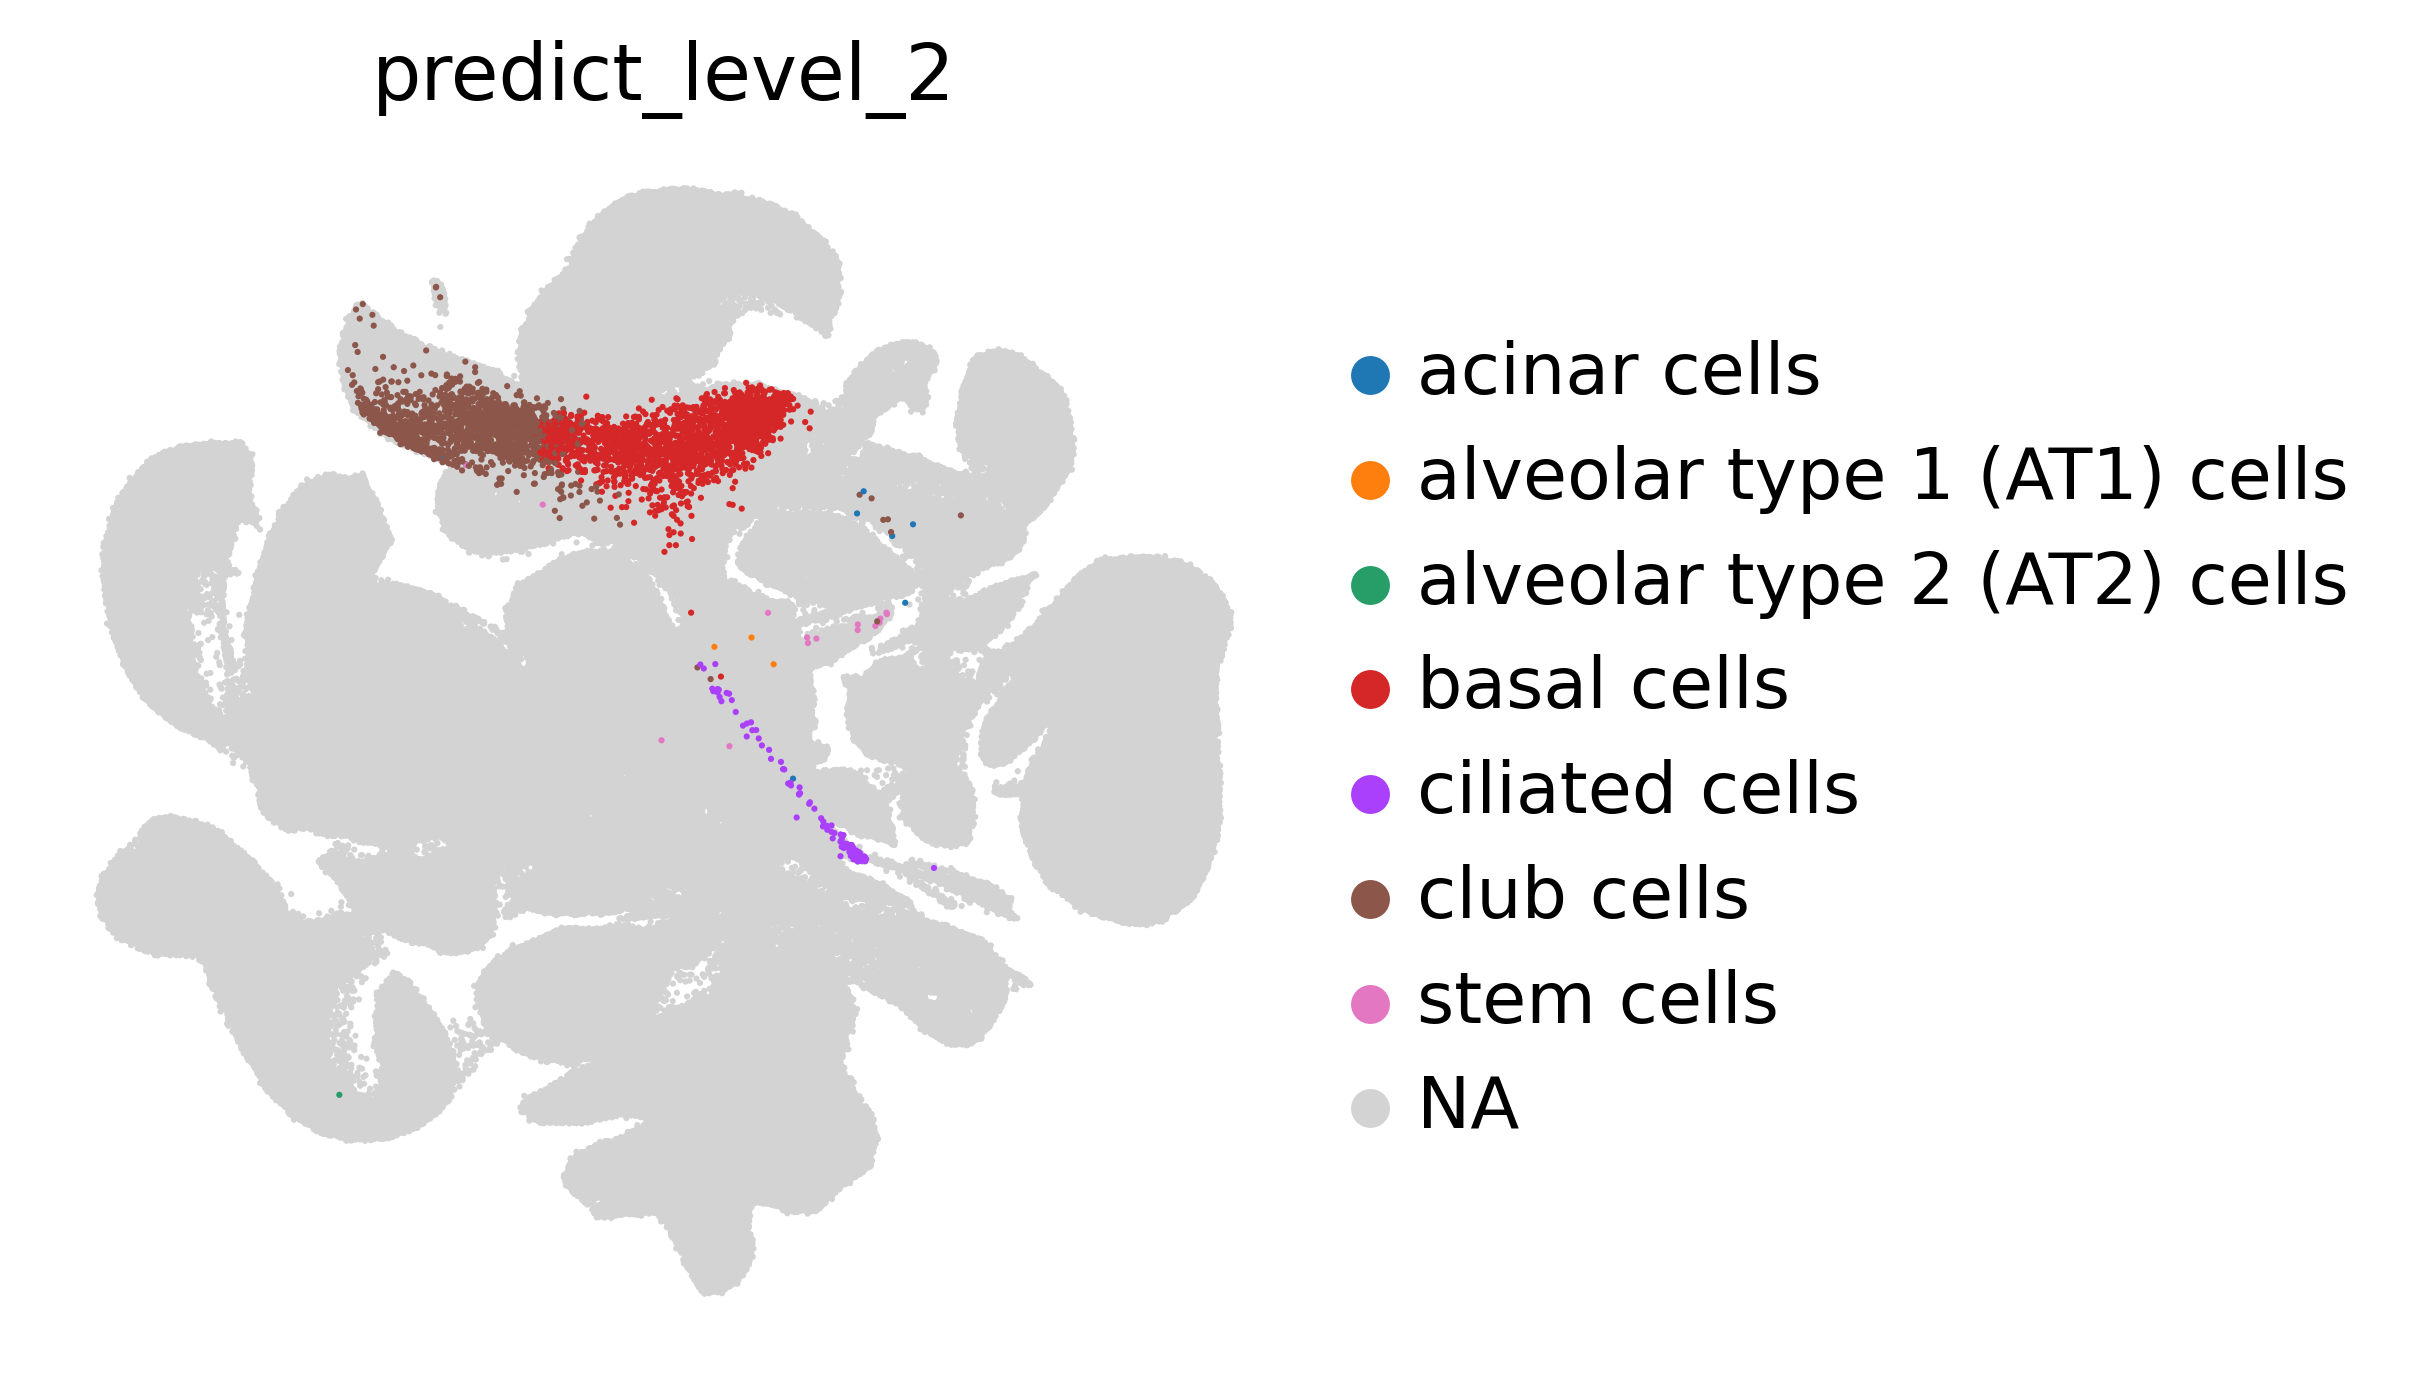
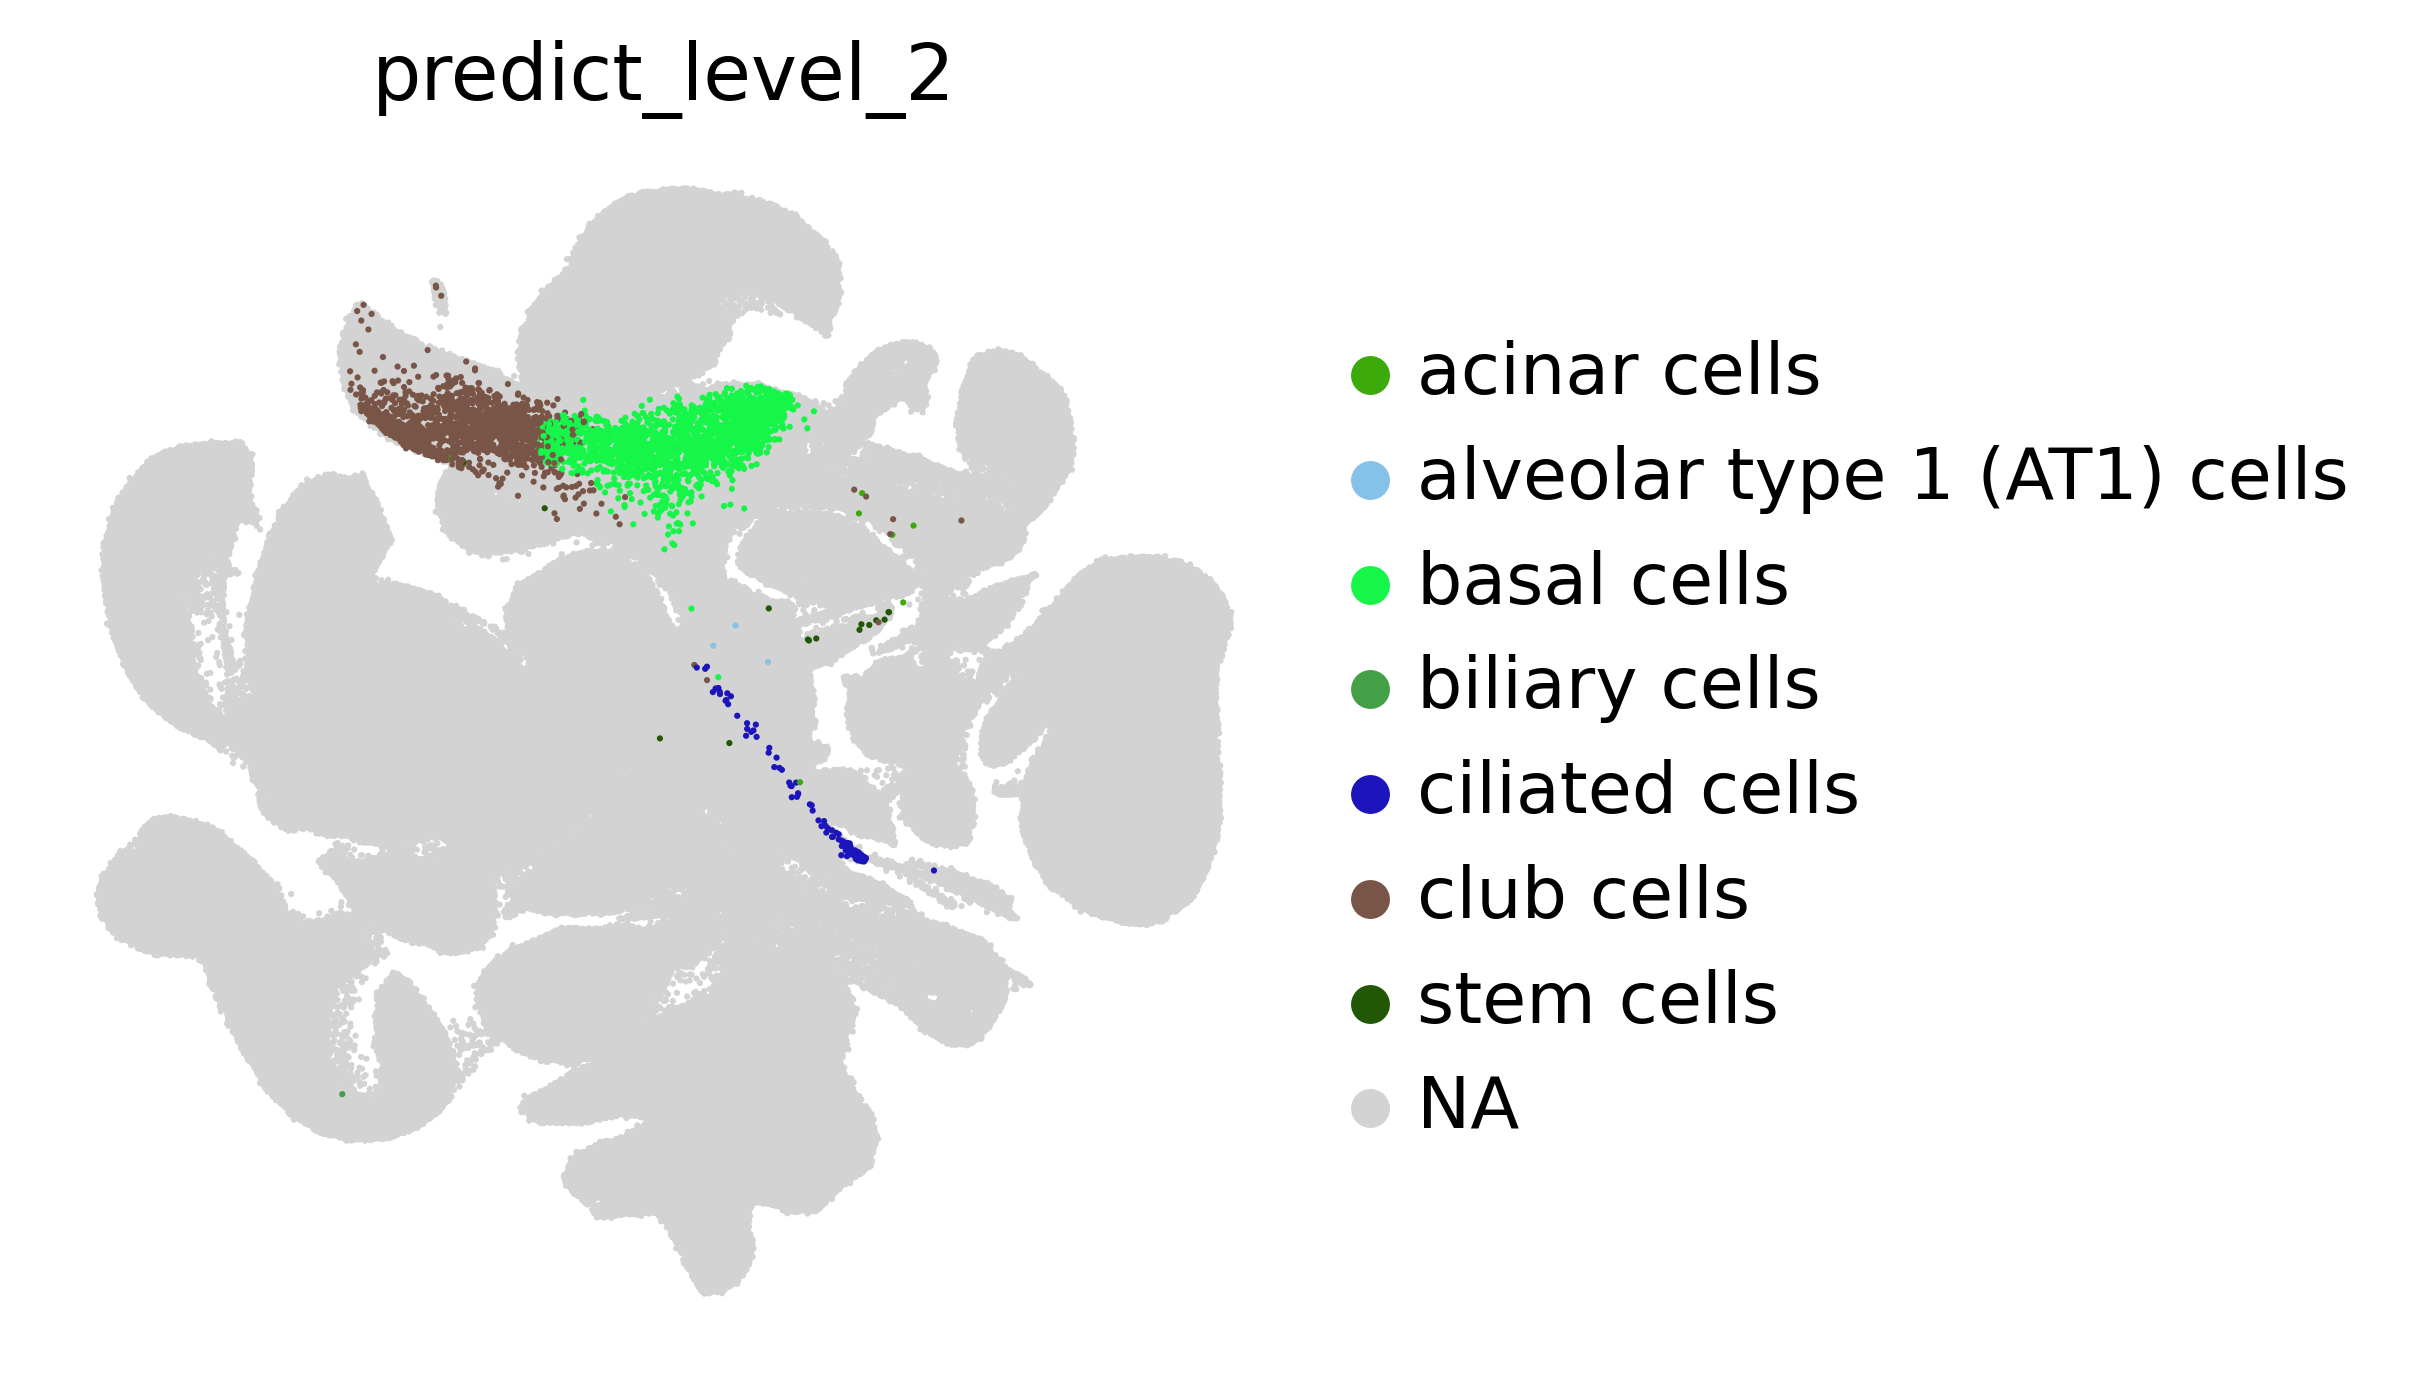
add color plate

diff --git a/sc2heoca/sc2heoca.py b/sc2heoca/sc2heoca.py
@@ -17,6 +17,14 @@ from scarches.models.scpoli import scPoli
 
 from . import PACKAGE_DIR
 
+def load_colorplate():
+    color_file = os.path.join(PACKAGE_DIR, "db", "gut_scpoli_color.txt")
+
+    plate_level_all = pd.read_csv(color_file, sep='\t', header=None, index_col=0)
+    plate_level_all = plate_level_all.to_dict()[1]
+
+    return plate_level_all
+
 def clear_genes(adata):
     gene_file = os.path.join(PACKAGE_DIR, "db", "hg_genes_clear.txt")
 
@@ -73,6 +81,7 @@ class Query:
         else:
             self.adata0.obs['sample_id']='sample2query'
 
+        self.colorplate = load_colorplate()
 
     def run_scpoli(self):
 

diff --git a/README.md b/README.md
@@ -29,7 +29,7 @@ import scanpy as sc
 from sc2heoca.sc2heoca import Query
 
 # read sample
-adata = sc.read_10x_mtx('Chan_NatCommun_2022/', prefix = 'GSM5628936_SCNPO2-')
+adata = sc.read_10x_mtx('Chan_NatCommun_2022', prefix = 'GSM5628936_SCNPO2-')
 
 model_dir = "heoca_scpoli_model.v1.0"
 heoca_query = Query(model_dir=model_dir, 
@@ -38,7 +38,8 @@ heoca_query = Query(model_dir=model_dir,
 
 adata_query = heoca_query.run_scpoli()
 
-sc.pl.umap(adata_query, color='predict_level_2', frameon=False, size=5)
+sc.pl.umap(adata2, color=['predict_level_2'], palette=heoca_query.colorplate,
+           frameon=False, size=5)
 
 ```
 ![](figures/GSM5628936_SCNPO2.png)
